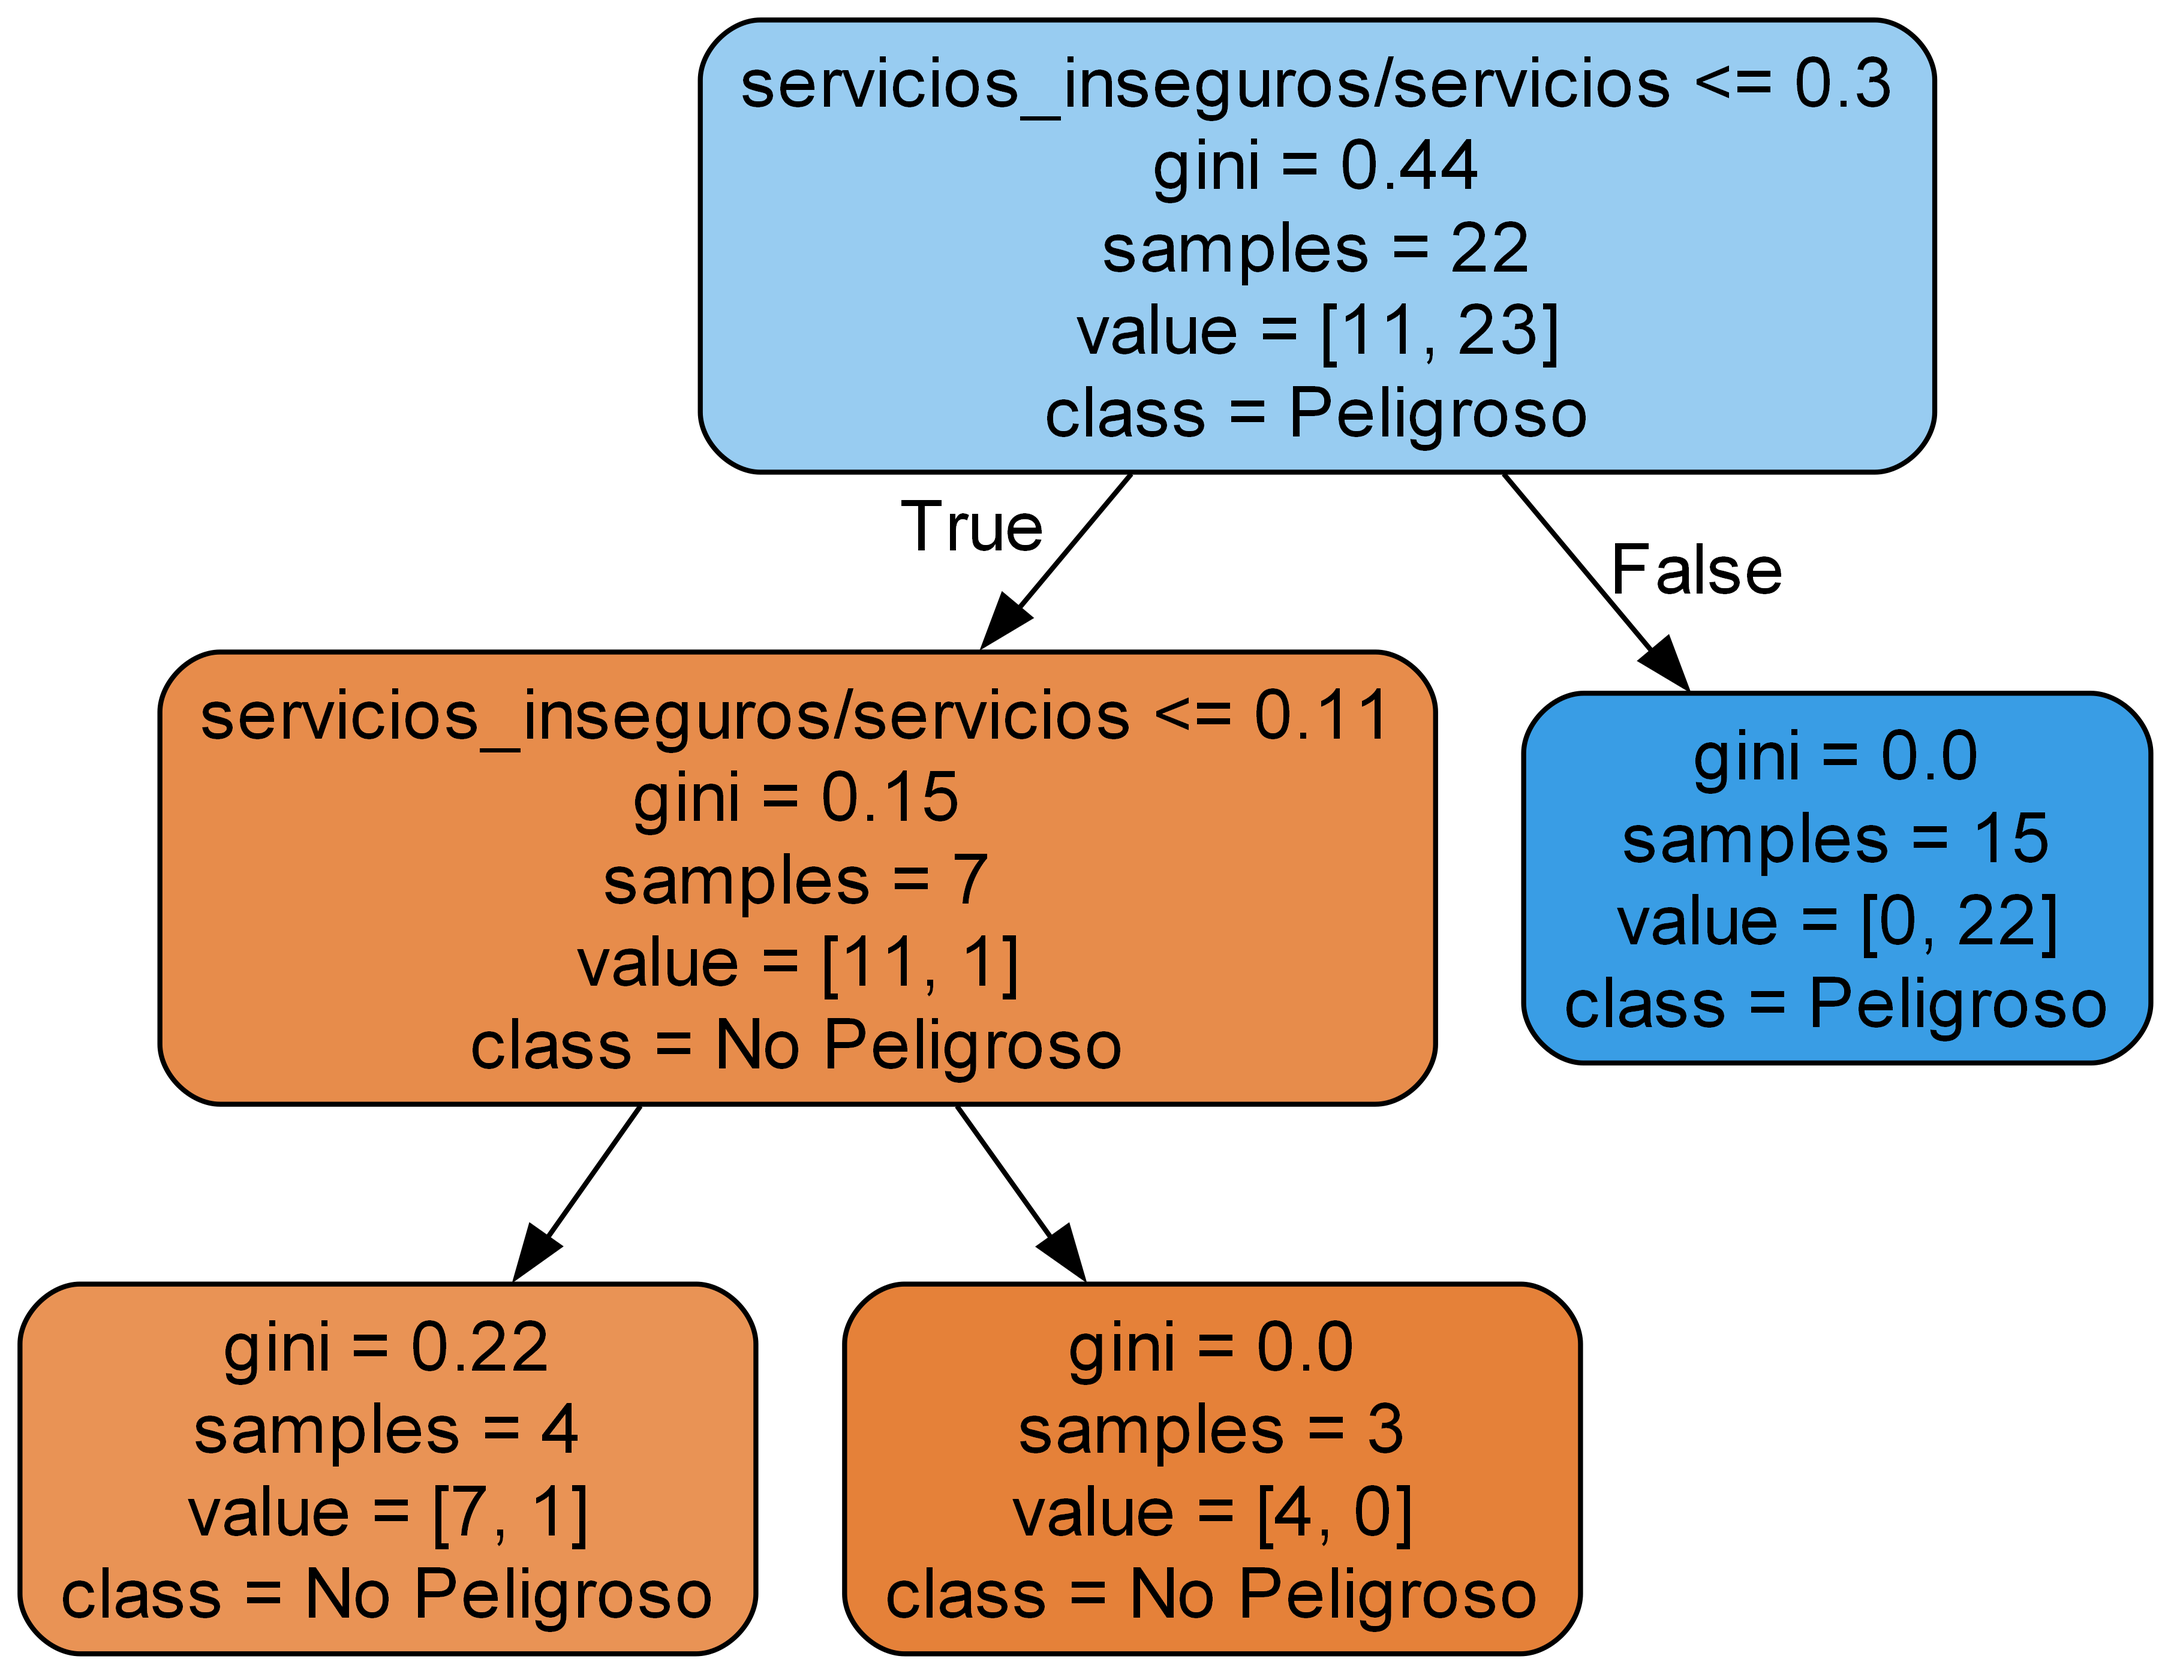
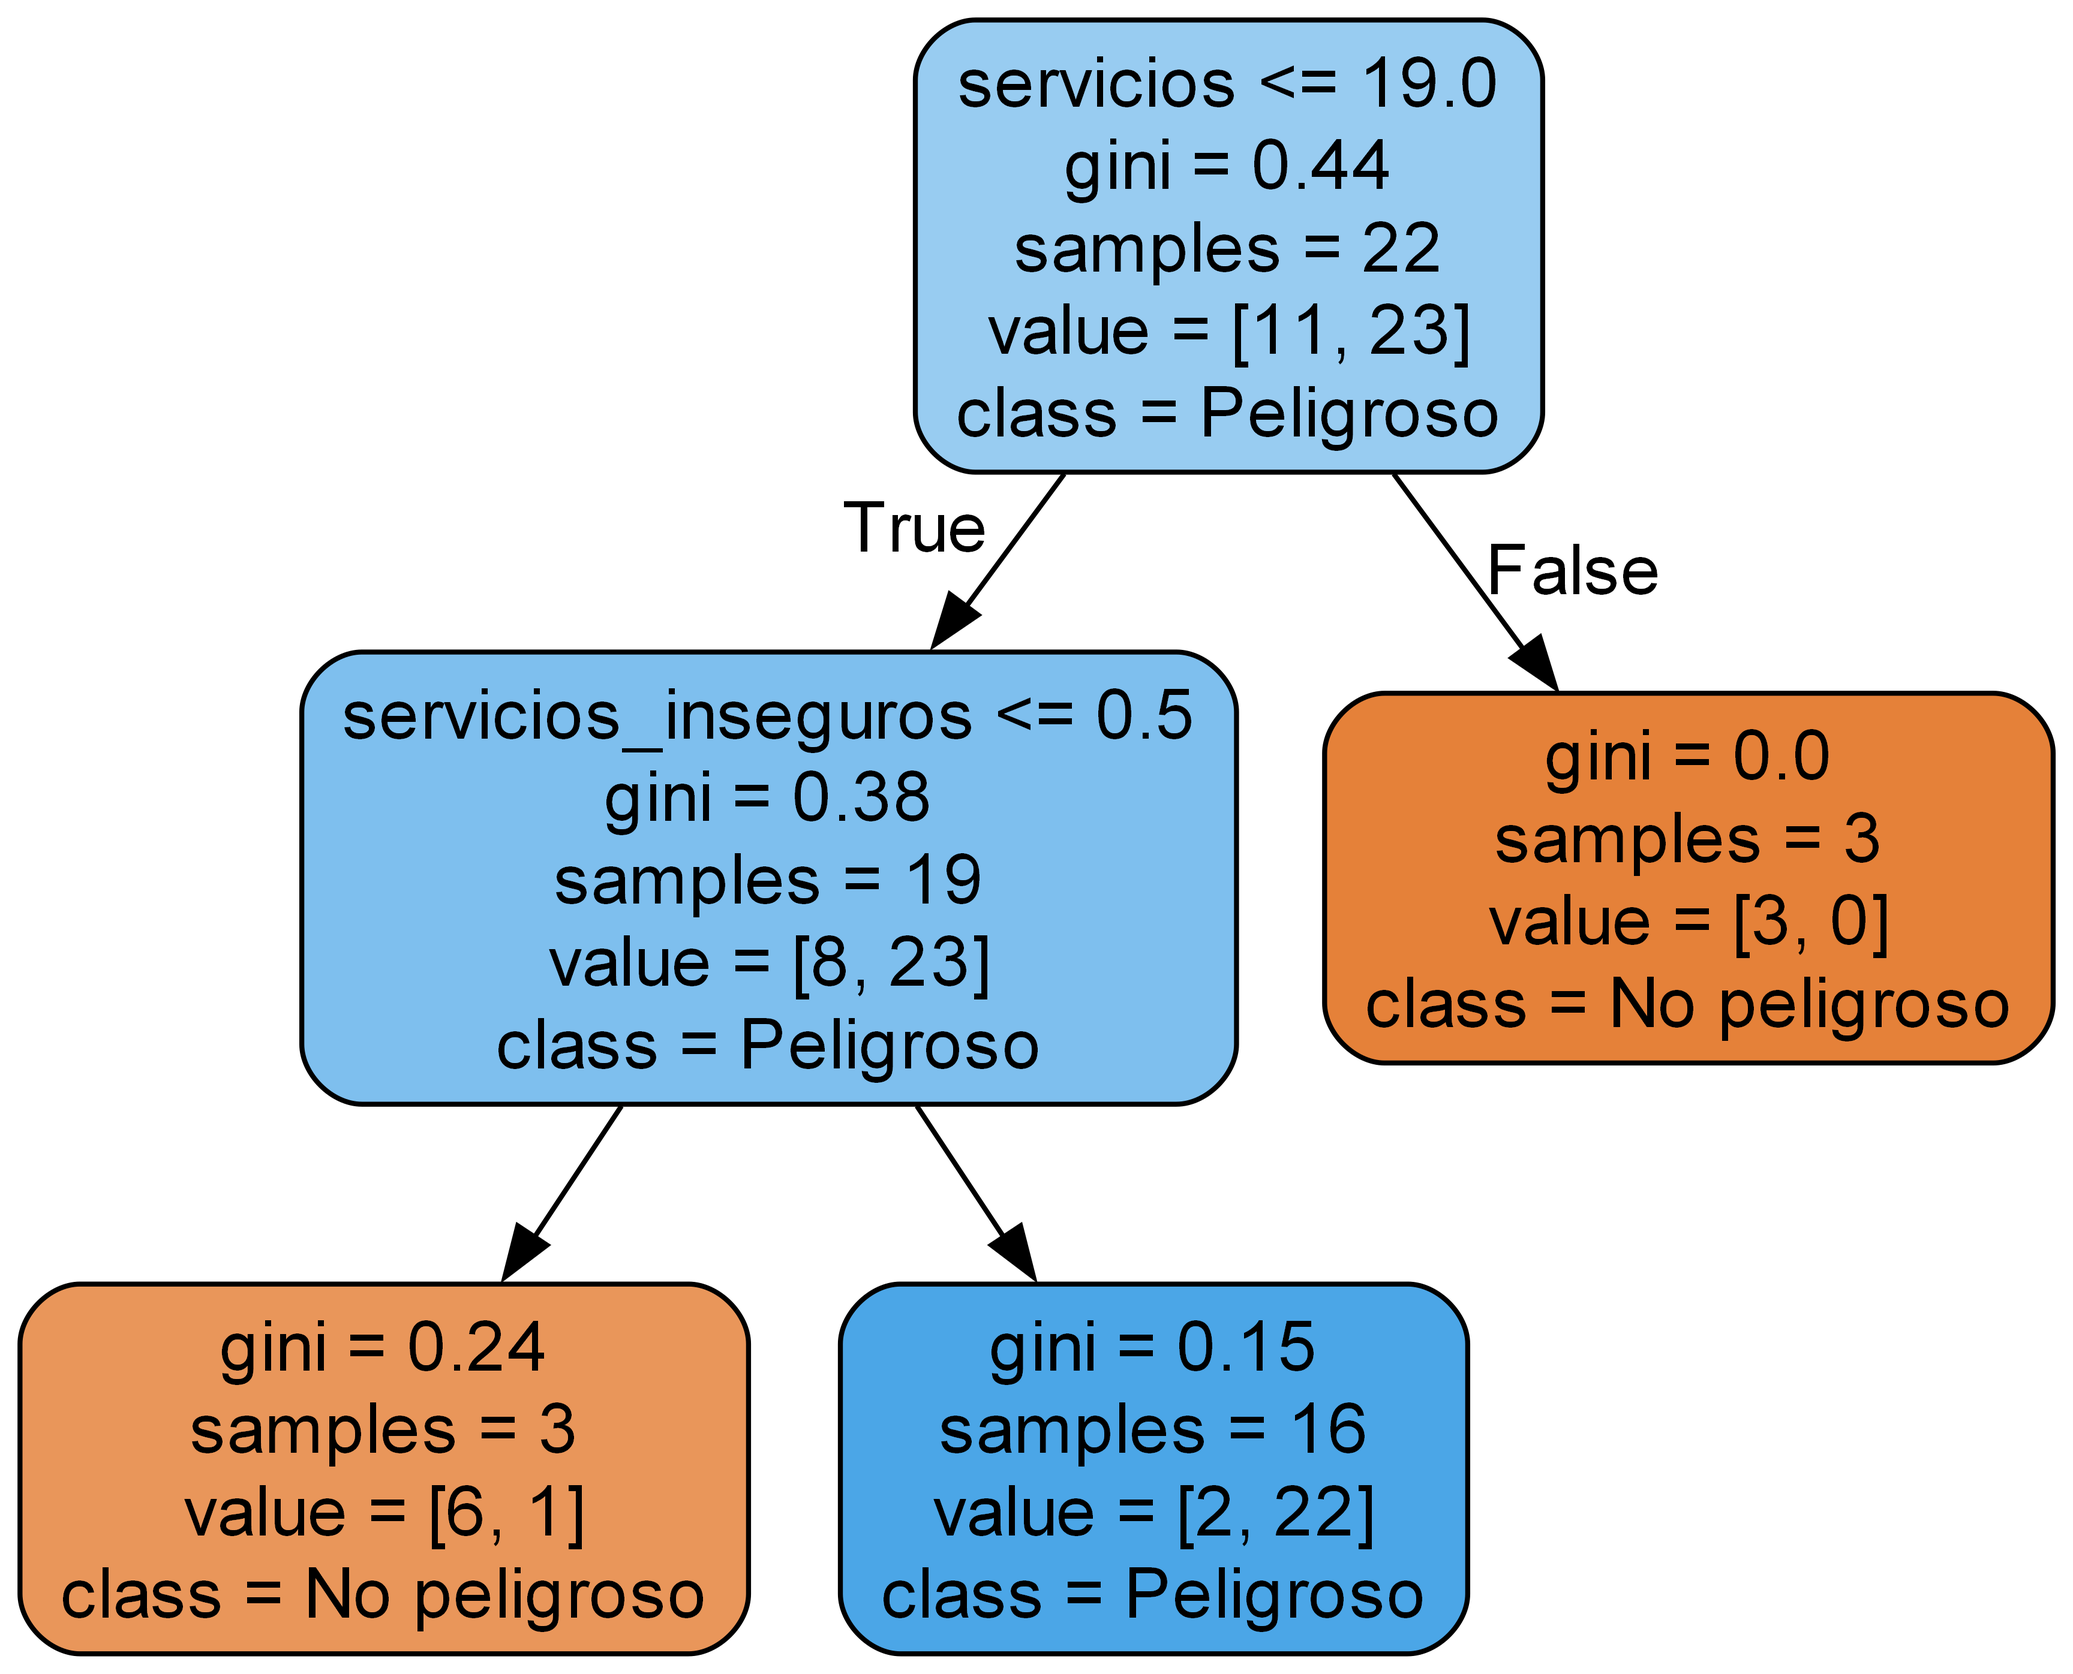
Update Random Forest

diff --git a/ejercicio5/randomForestDevices.py b/ejercicio5/randomForestDevices.py
@@ -12,45 +12,74 @@ from sklearn.linear_model import LinearRegression
 from sklearn.metrics import r2_score, accuracy_score
 from sklearn.tree import export_graphviz
 
-# Cargamos los datos de los dispositivos:
 
-with open(r'..\Data\devices_IA_clases.json') as f:
-    train_data = json.load(f)
-with open(r'..\Data\devices_IA_predecir_v2.json') as f:
-    test_data = json.load(f)
+#######################
+###### LOAD DATA ######
+#######################
+
+def load_train_data(data, train_X, train_y):
+    with open(data) as f:
+        train_data = json.load(f)
+        for i in train_data:
+            if (i['servicios'] == 0):
+                continue
+            train_X.append([i['servicios'], i['servicios_inseguros'], ])
+            train_y.append(i['peligroso'])
+
+
+def predict(test_data, tree, test_X):
+    with open(test_data) as f:
+        test_data = json.load(f)
+    id = []
+    for i in test_data:
+        if (i['servicios'] == 0):
+            continue
+        test_X.append([i['servicios'], i['servicios_inseguros'], ])
+        id.append(i['id'])
+    test_y = tree.predict(test_X)
+    return test_y, id
+
+
+# Main prog:
 
 train_X = []
 train_y = []
-
-for i in train_data:
-    if (i['servicios'] == 0):
-        continue
-    train_X.append([i['servicios_inseguros'] / i['servicios']])
-    train_y.append(i['peligroso'])
-
 test_X = []
 test_y = []
-for i in test_data:
-    if(i['servicios']==0):
-        continue
-    test_X.append([i['servicios_inseguros']/i['servicios']])
-    test_y.append(i['peligroso'])
+id = []
 
-clf = RandomForestClassifier(max_depth=5, random_state=0, n_estimators=10)
+train_path = r'..\Data\devices_IA_clases.json'
+test_path = r'..\Data\devices_IA_predecir_v2.json'
+
+load_train_data(train_path, train_X, train_y)
+clf = RandomForestClassifier(max_depth=2, random_state=0, n_estimators=10)
 clf.fit(train_X, train_y)
-
-user_Y_pred = clf.predict(test_X)
+print(clf.predict(train_X))
 
 for i in range(len(clf.estimators_)):
     print(i)
     estimator = clf.estimators_[i]
     export_graphviz(estimator,
                     out_file='tree.dot',
-                    feature_names=['servicios_inseguros/servicios'],
-                    class_names=['No Peligroso', 'Peligroso'],
+                    feature_names=['servicios', 'servicios_inseguros'],
+                    class_names=['No peligroso', 'Peligroso'],
                     rounded=True, proportion=False,
                     precision=2, filled=True)
-    call(['dot','-Tpng', 'tree.dot','-o','tree' + str(i) + '.png','-Gdpi=600'])
+    call(['dot', '-Tpng', 'tree.dot', '-o', 'tree'+str(i)+'.png', '-Gdpi=600'])
+
+test_y, id = predict(test_path, clf, test_X)
+count = 0
+
+dispositivos_peligrosos = []
+for i in range(len(test_y)):
+    if test_y[i] == 1:
+        count += 1
+        dispositivos_peligrosos.append(id[i])
+
+print("Número de dispositivos peligrosos: ", count)
+print("Se muestran a continuación la lista de dispositivos peligrosos: ", end=" ")
+print(dispositivos_peligrosos)
+
 
 
 
